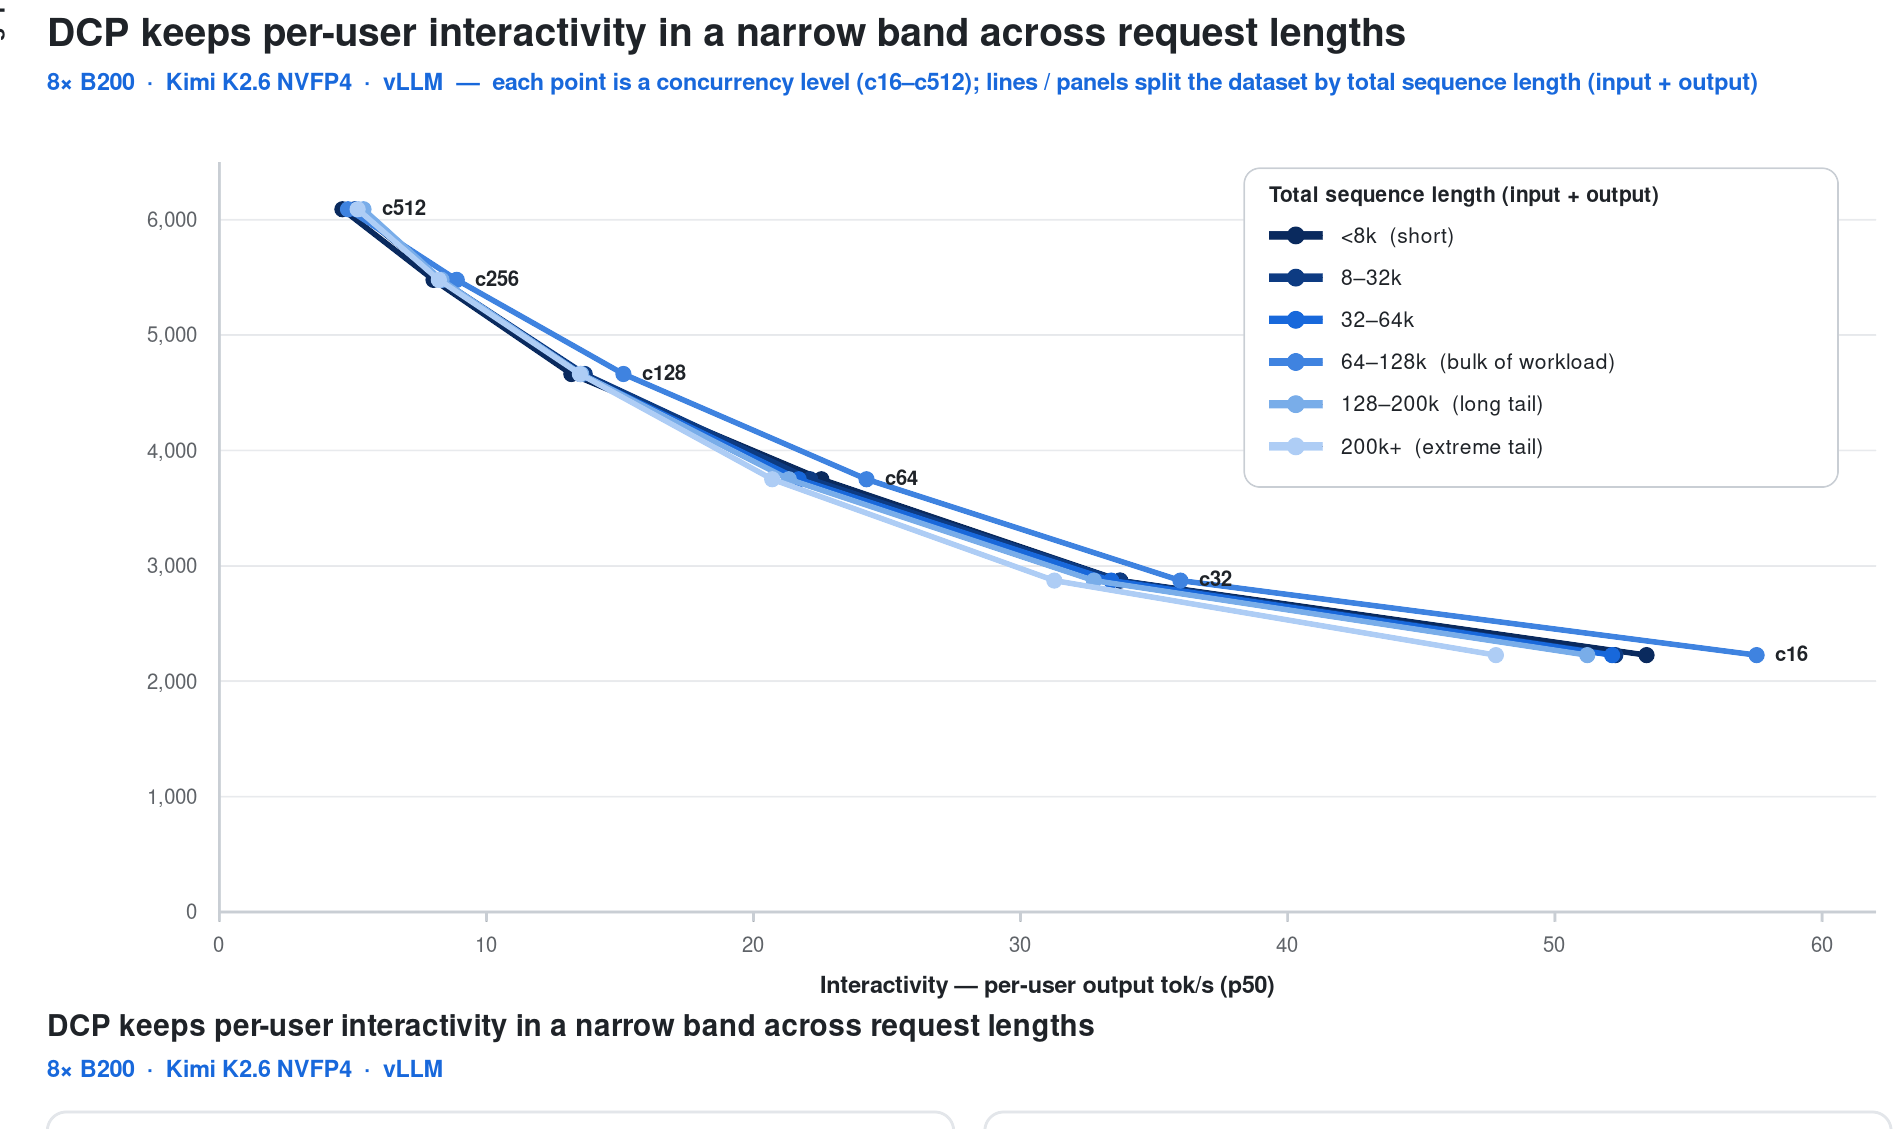
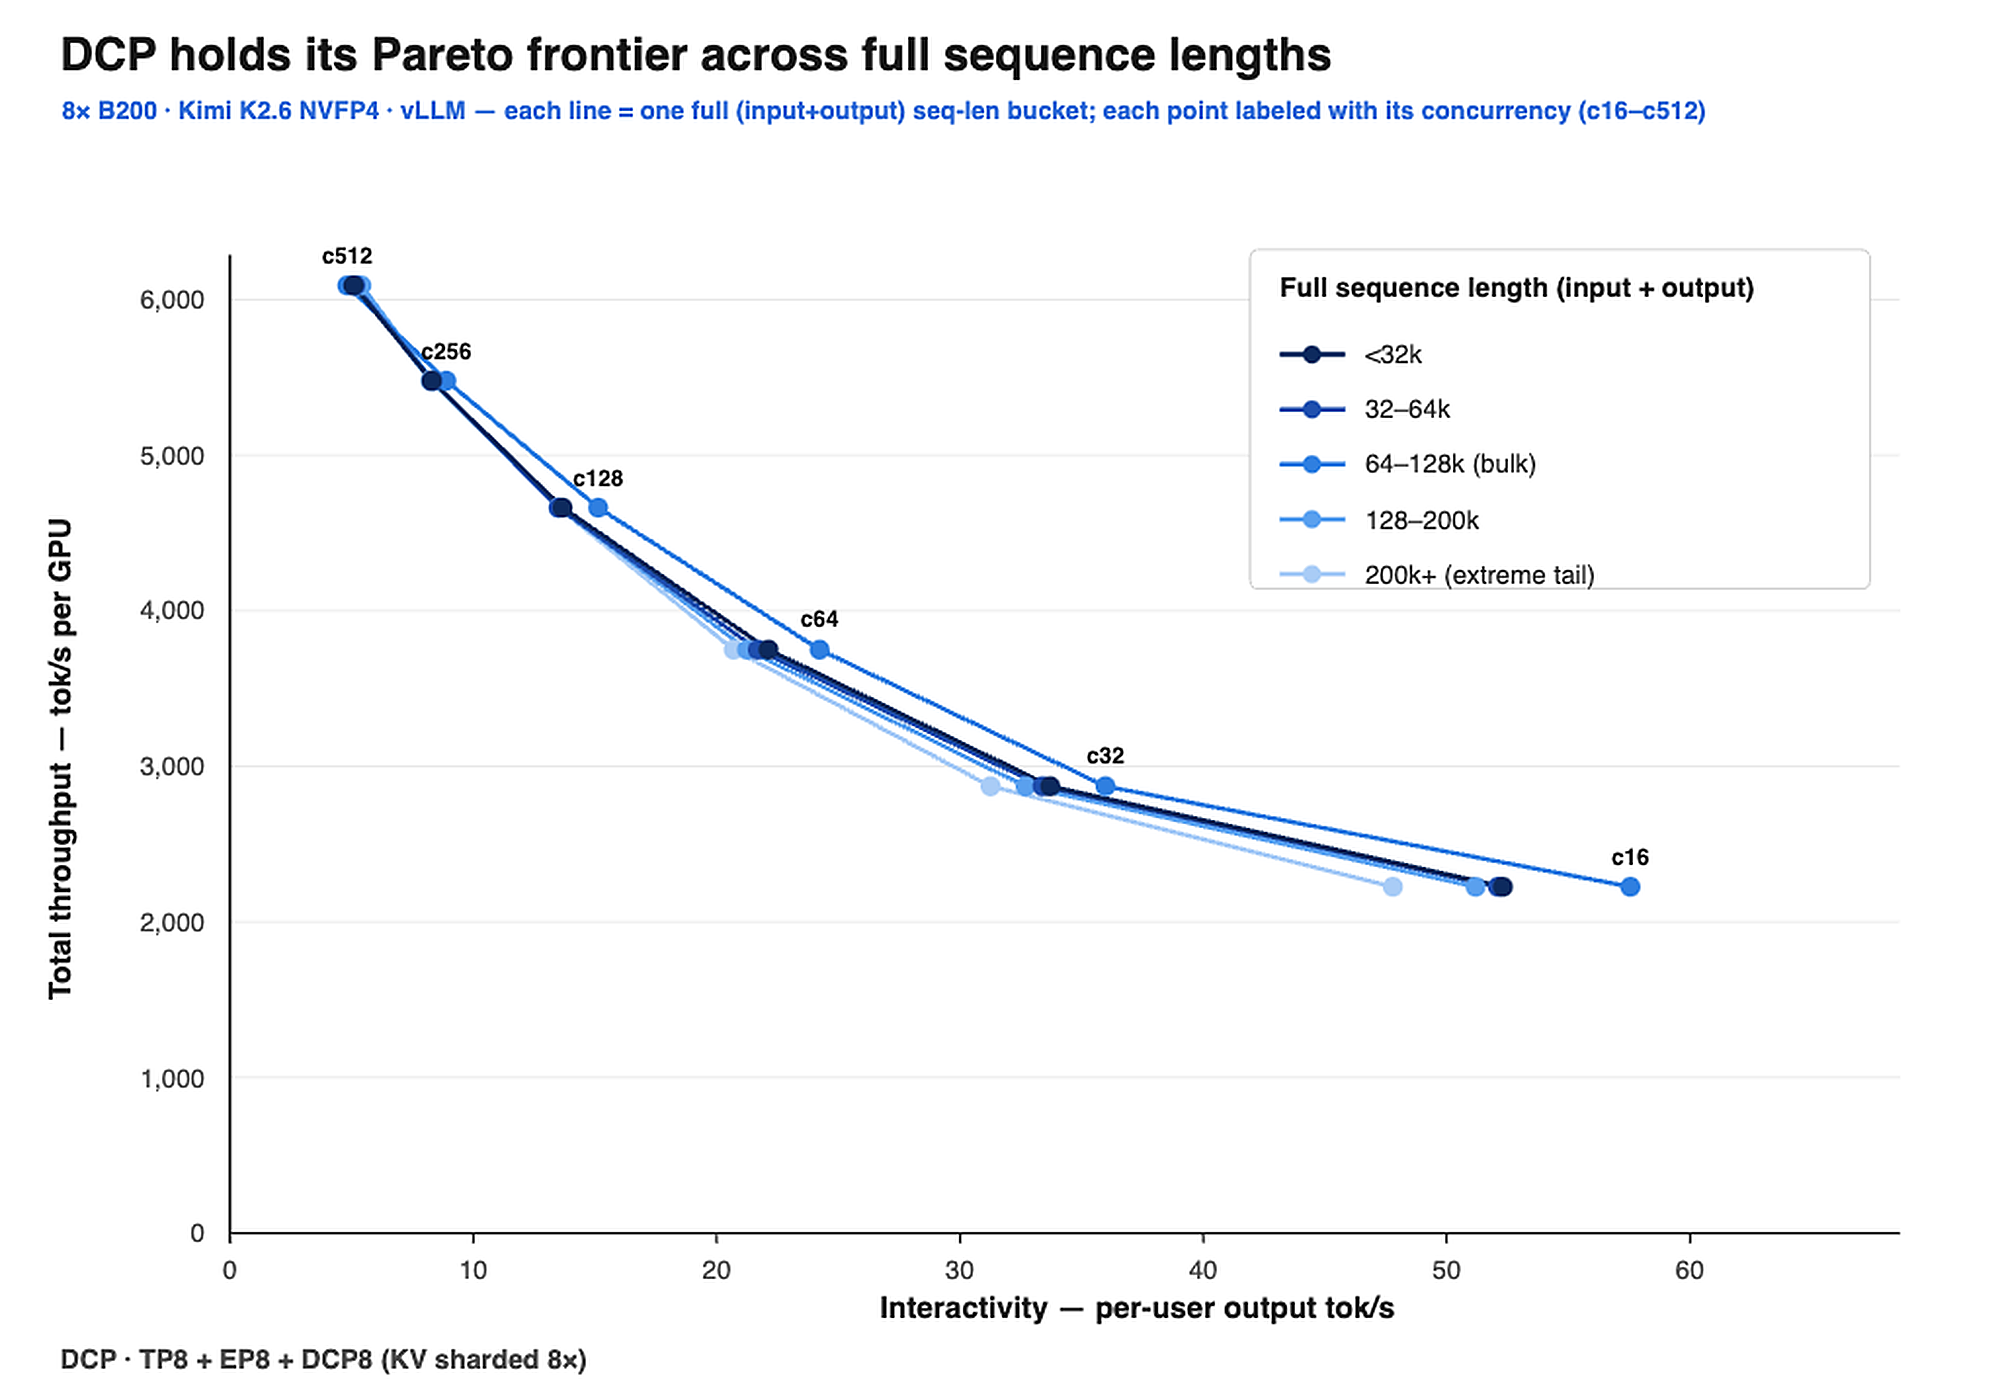
Replace figure 4 with full-length Pareto frontier chart

diff --git a/_posts/2026-07-27-decode-context-parallelism.md b/_posts/2026-07-27-decode-context-parallelism.md
@@ -50,7 +50,7 @@ The difference comes down to where the KV cache lives. Baseline TP replicates th
 <img src="/assets/figures/2026-07-27-decode-context-parallelism/figure-4.png" alt="DCP Pareto frontier across full sequence-length bands" width="100%">
 </p>
 
-We also plotted performance against full sequence length (input + output). The figure shows a single throughput–interactivity Pareto frontier with requests grouped into six length bands (&lt;8k, 8–32k, 32–64k, 64–128k, 128–200k, and 200k+) so we can see how performance shifts with context length. **DCP keeps a high, stable frontier even in the 200k+ range**, with the curves for short and long buckets nearly overlapping: throughput scales with concurrency while per-user speed stays usable at the long context lengths where the replicated-KV baseline runs out of memory and cannot scale.
+We also plotted performance against full sequence length (input + output). The figure shows a single throughput–interactivity Pareto frontier with requests grouped into five length bands (&lt;32k, 32–64k, 64–128k, 128–200k, and 200k+) so we can see how performance shifts with context length. **DCP keeps a high, stable frontier even in the 200k+ range**, with the curves for short and long buckets nearly overlapping: throughput scales with concurrency while per-user speed stays usable at the long context lengths where the replicated-KV baseline runs out of memory and cannot scale.
 
 ## 3. Challenges of Serving Long Contexts
 
